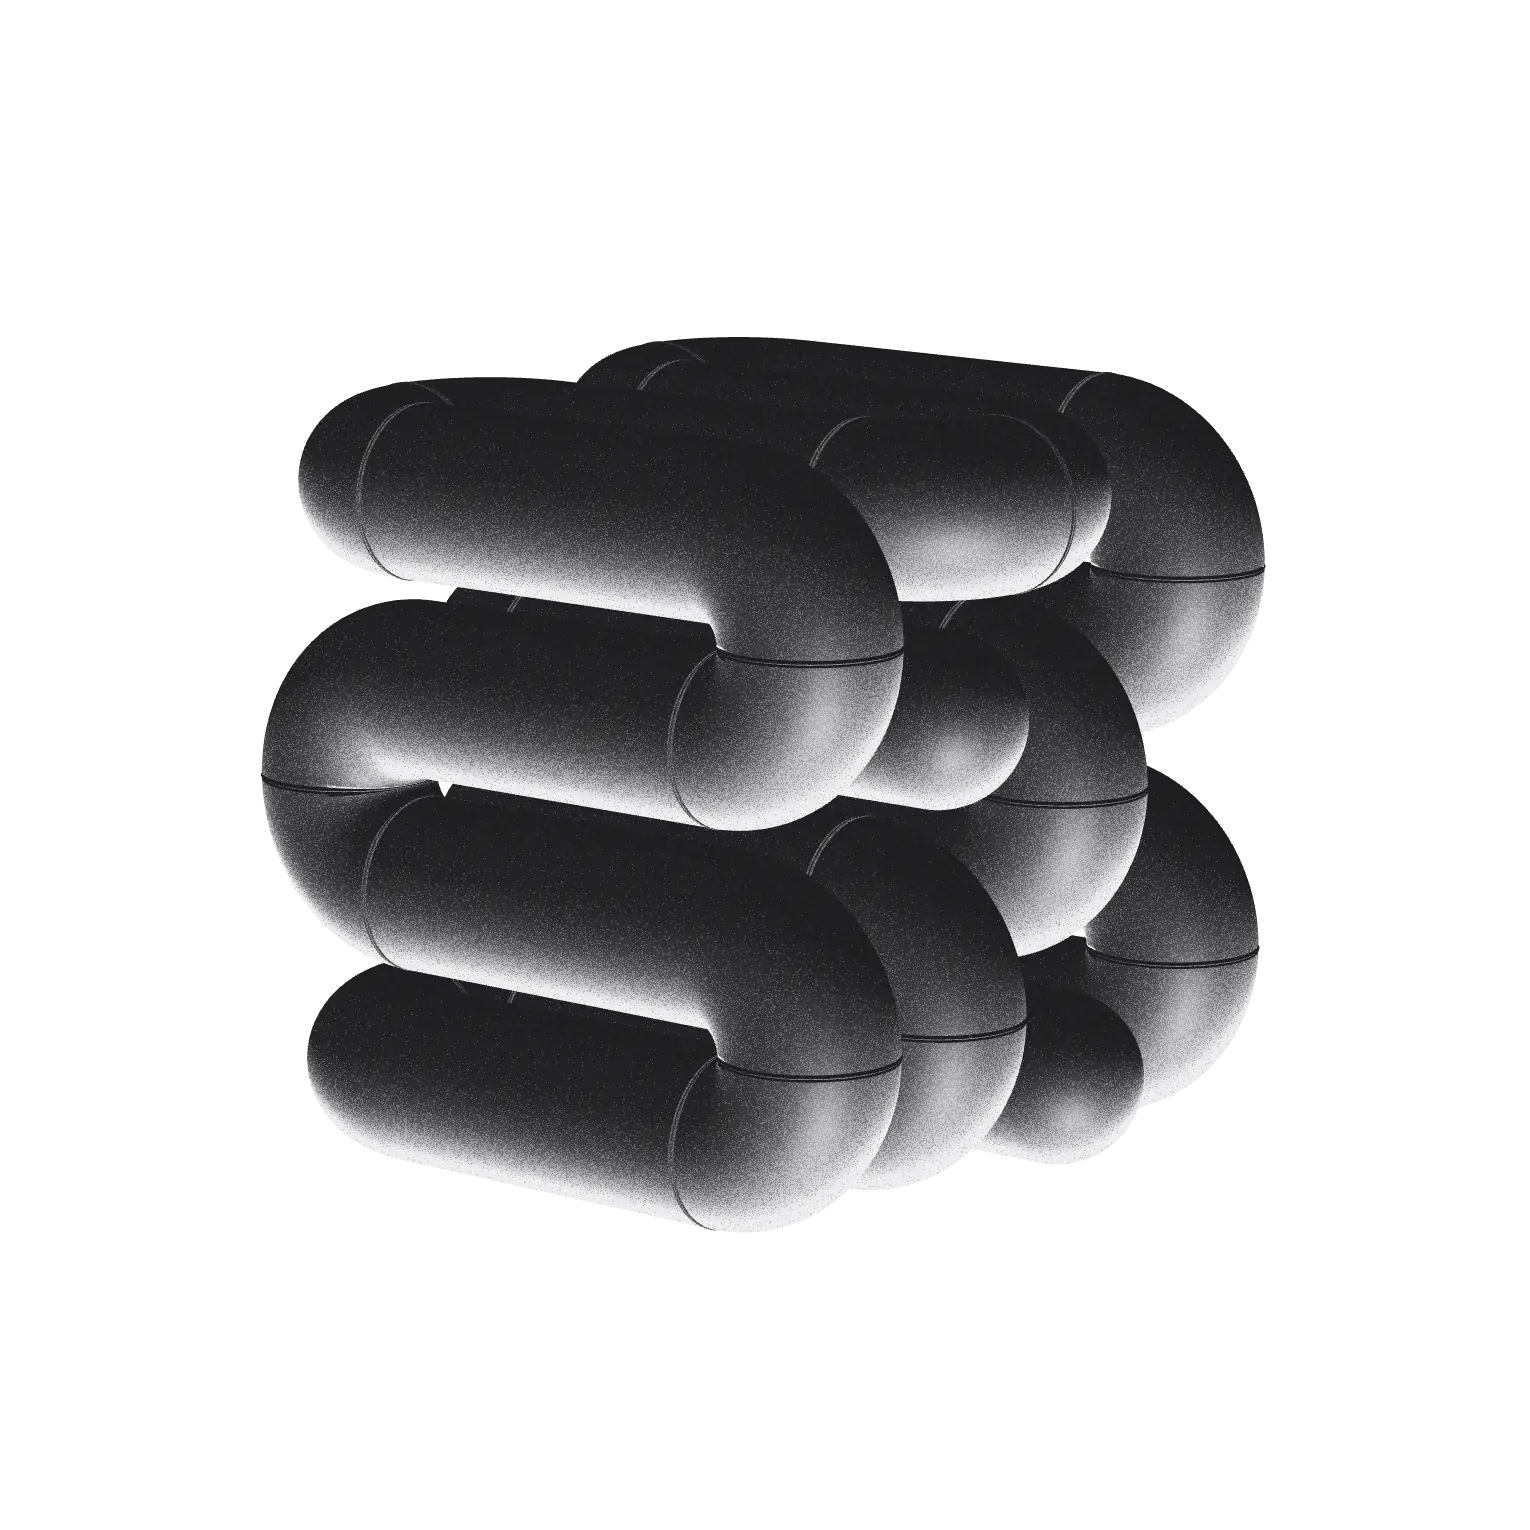
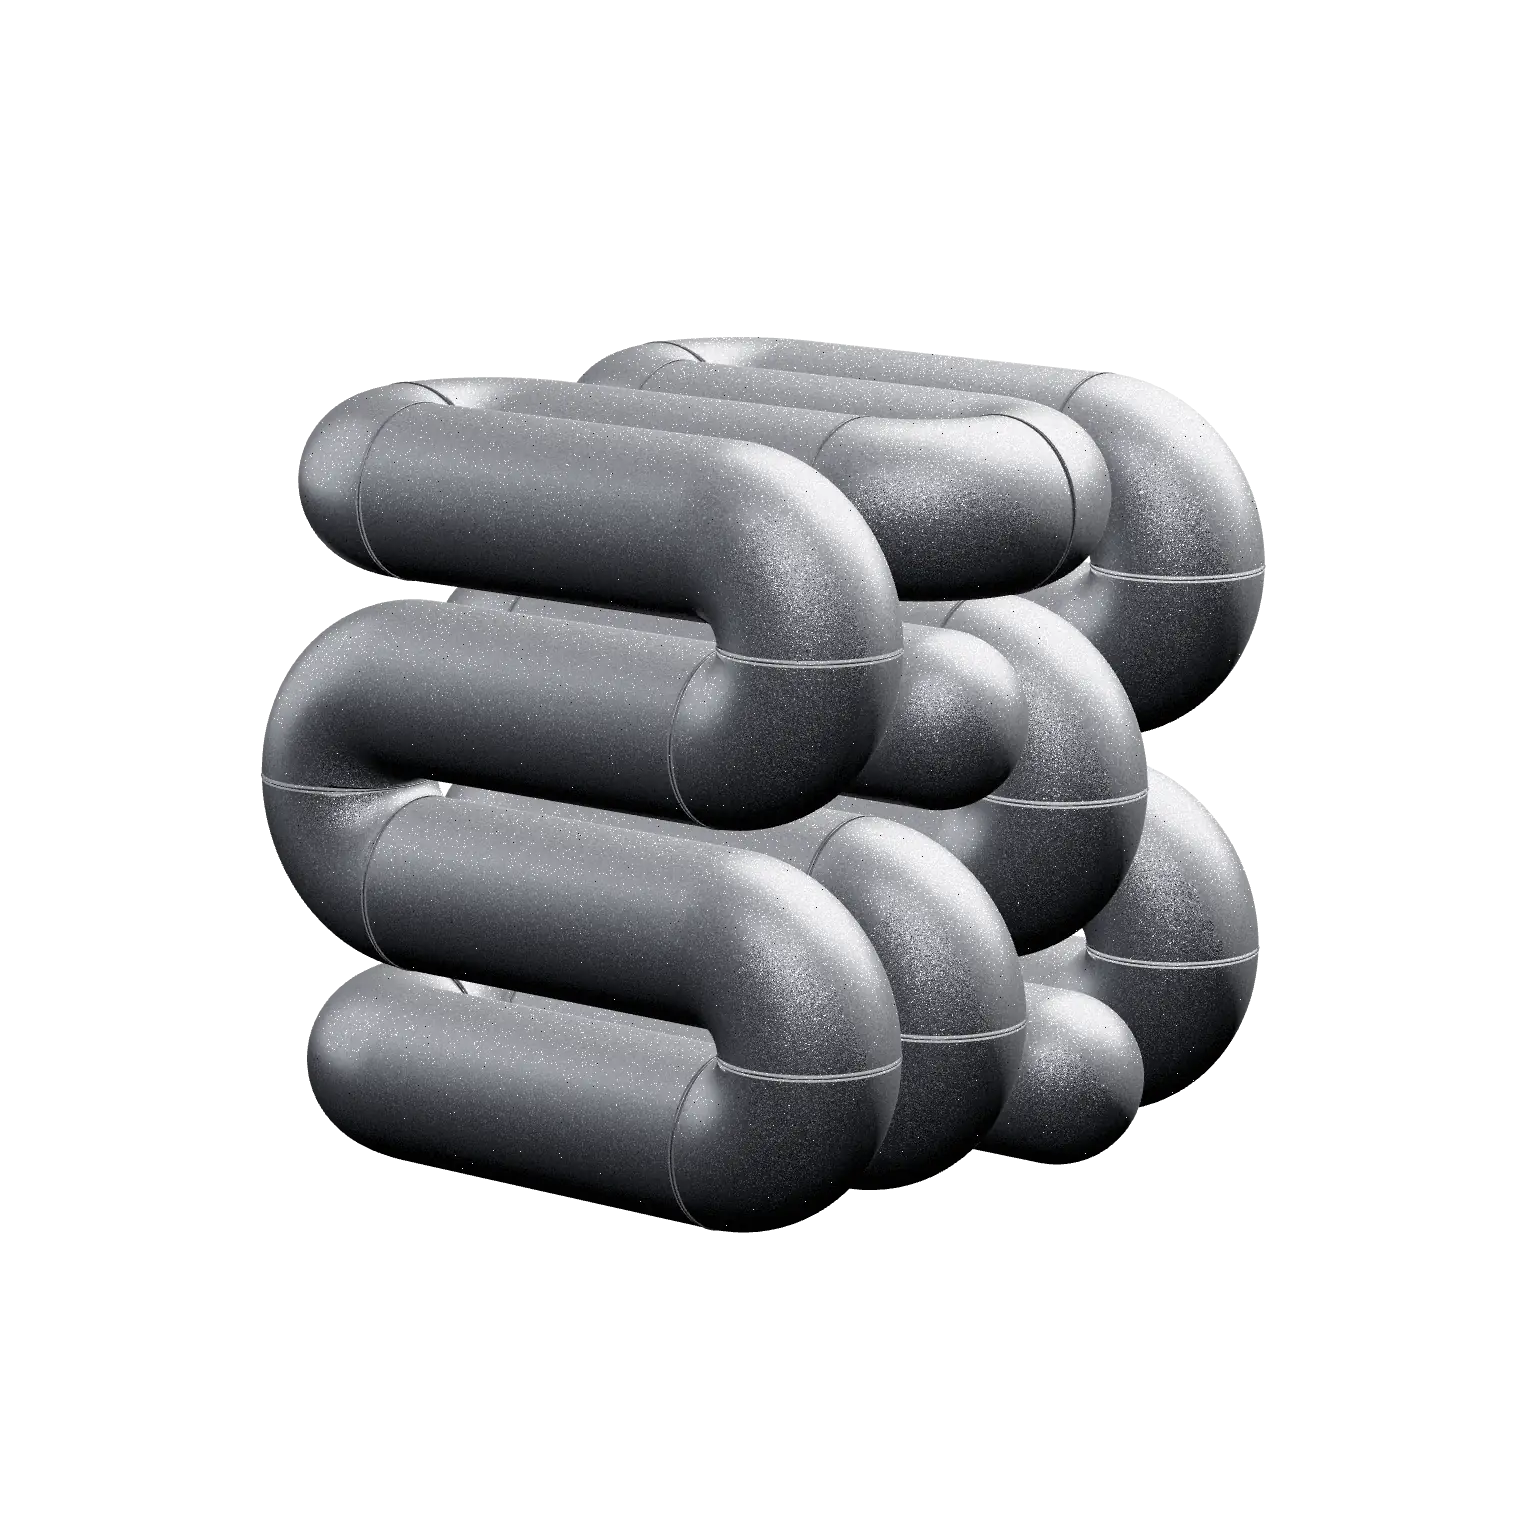
立体を最初の銀色に戻し、細かな粒を重ねる。調整パネルも銀色用にする

Changed region(s): [[0.1536, 0.215, 0.8294, 0.8294]]

diff --git a/src/components/GrainTuner.tsx b/src/components/GrainTuner.tsx
@@ -2,24 +2,25 @@
 
 import { useEffect, useState } from "react";
 import { createPortal } from "react-dom";
-import { GRAIN, type Grain } from "@/lib/sykim/grain";
+import { SILVER, type Silver } from "@/lib/sykim/silverGrain";
 
 /**
  * 立体の質感を、その場で動かして確かめる調整パネル。
  * URL に ?tune を付けたときだけ出る（例: https://noitems01.vercel.app/?tune）。
  *
  * 使い方: つまみを動かす →「値をコピー」→ その文字をそのまま Claude に送る。
- * 送られた値を lib/sykim/grain.ts の GRAIN に書き写して確定する
+ * 送られた値を lib/sykim/silverGrain.ts の SILVER に書き写して確定する
  * （ground だけは背景色なので globals.css の --color-ground へ）。
  * 動かした値はこのブラウザに覚えておくので、再読み込みしても消えない。
  */
 
-const STORE = "noitems-grain-tune";
+// 黒い粒子の頃（noitems-grain-tune）とは値の中身が違うので、覚える場所を分ける
+const STORE = "noitems-silver-tune";
 
 /** ページの背景（globals.css の --color-ground）。立体の値と一緒に調整する */
 const GROUND = "#d5d1c9";
-type Tune = Grain & { ground: string };
-const DEFAULT: Tune = { ...GRAIN, ground: GROUND };
+type Tune = Silver & { ground: string };
+const DEFAULT: Tune = { ...SILVER, ground: GROUND };
 
 const toHex = (a: number[]) =>
   "#" + a.slice(0, 3).map((v) => Math.round(Math.min(1, Math.max(0, v)) * 255)
@@ -51,10 +52,8 @@ type Swatch = {
 const SWATCHES: Swatch[] = [
   { label: "背景の色", hint: "ページの地",
     get: (g) => g.ground, set: (g, h) => ({ ...g, ground: h }) },
-  { label: "立体の地の色", hint: "暗い面の色",
-    get: (g) => toHex(g.dark), set: (g, h) => ({ ...g, dark: fromHex(h) }) },
-  { label: "立体の白", hint: "光った所の色",
-    get: (g) => toHex(g.light), set: (g, h) => ({ ...g, light: fromHex(h) }) },
+  { label: "本体の色", hint: "金属の色",
+    get: (g) => g.base, set: (g, h) => ({ ...g, base: h }) },
 ];
 
 type Knob = {
@@ -67,65 +66,44 @@ type Knob = {
   set: (g: Tune, v: number) => Tune;
 };
 
-const vec = (i: number) => ({
-  get: (g: Tune) => g.keyDir[i],
-  set: (g: Tune, v: number) => {
-    const d = [...g.keyDir];
-    d[i] = v;
-    return { ...g, keyDir: d };
-  },
-});
-
 const GROUPS: { title: string; knobs: Knob[] }[] = [
   {
-    title: "ざらつき",
+    title: "粒",
     knobs: [
-      { label: "粒の量", hint: "0でなめらか、1で粒だけ", min: 0, max: 1, step: 0.01,
-        get: (g) => g.smooth, set: (g, v) => ({ ...g, smooth: v }) },
-      { label: "細かな揺れ", hint: "画素ごとのざらざら", min: 0, max: 0.1, step: 0.001,
+      { label: "ざらつき", hint: "画素ごとの明るさの揺れ", min: 0, max: 0.15, step: 0.001,
         get: (g) => g.noise, set: (g, v) => ({ ...g, noise: v }) },
+      { label: "白い粒の量", hint: "光った所に散る白い点", min: 0, max: 0.8, step: 0.01,
+        get: (g) => g.dots, set: (g, v) => ({ ...g, dots: v }) },
+      { label: "白い粒が出る所", hint: "小さいほど暗い所にも出る", min: 0, max: 1, step: 0.01,
+        get: (g) => g.dotsFrom, set: (g, v) => ({ ...g, dotsFrom: v }) },
+      { label: "黒い粒の量", hint: "影に散る黒い点", min: 0, max: 0.8, step: 0.01,
+        get: (g) => g.darkDots, set: (g, v) => ({ ...g, darkDots: v }) },
       { label: "粒の大きさ", hint: "画素数", min: 1, max: 4, step: 1,
         get: (g) => g.grainPx, set: (g, v) => ({ ...g, grainPx: v }) },
-      { label: "明るい所の埋まり", hint: "1で白一色", min: 0.5, max: 1, step: 0.01,
-        get: (g) => g.cap, set: (g, v) => ({ ...g, cap: v }) },
-      { label: "暗い所の粒", hint: "暗い面に散らす白い点", min: 0, max: 0.3, step: 0.005,
-        get: (g) => g.floor, set: (g, v) => ({ ...g, floor: v }) },
     ],
   },
   {
-    title: "光沢",
+    title: "金属",
     knobs: [
-      { label: "照りの強さ", hint: "つるっとした照り返し", min: 0, max: 1.5, step: 0.01,
-        get: (g) => g.spec, set: (g, v) => ({ ...g, spec: v }) },
-      { label: "照りの鋭さ", hint: "大きいほど小さく鋭い", min: 2, max: 200, step: 1,
-        get: (g) => g.shine, set: (g, v) => ({ ...g, shine: v }) },
-    ],
-  },
-  {
-    title: "光",
-    knobs: [
-      { label: "主光の強さ", hint: "", min: 0, max: 1.5, step: 0.01,
-        get: (g) => g.key, set: (g, v) => ({ ...g, key: v }) },
-      { label: "主光 左右", hint: "−左 ／ ＋右", min: -1, max: 1, step: 0.01, ...vec(0) },
-      { label: "主光 上下", hint: "−下 ／ ＋上", min: -1, max: 1, step: 0.01, ...vec(1) },
-      { label: "主光 前後", hint: "＋手前から", min: -1, max: 1, step: 0.01, ...vec(2) },
-      { label: "補助光", hint: "左からの弱い光", min: 0, max: 0.6, step: 0.01,
-        get: (g) => g.fill, set: (g, v) => ({ ...g, fill: v }) },
-      { label: "縁の光", hint: "下側の輪郭の白", min: 0, max: 2.5, step: 0.01,
-        get: (g) => g.rim, set: (g, v) => ({ ...g, rim: v }) },
-      { label: "全体の底上げ", hint: "光の当たらない面", min: 0, max: 0.4, step: 0.005,
-        get: (g) => g.ambient, set: (g, v) => ({ ...g, ambient: v }) },
+      { label: "明るさ", hint: "全体の露出", min: -3, max: 0.5, step: 0.01,
+        get: (g) => g.exposure, set: (g, v) => ({ ...g, exposure: v }) },
+      { label: "金属っぽさ", hint: "0で塗装、1で鏡のよう", min: 0, max: 1, step: 0.005,
+        get: (g) => g.metalness, set: (g, v) => ({ ...g, metalness: v }) },
+      { label: "映り込み", hint: "まわりの景色", min: 0, max: 0.6, step: 0.005,
+        get: (g) => g.env, set: (g, v) => ({ ...g, env: v }) },
+      { label: "継ぎ目の暗さ", hint: "小さいほど暗い線", min: 0, max: 1, step: 0.01,
+        get: (g) => g.seam, set: (g, v) => ({ ...g, seam: v }) },
     ],
   },
 ];
 
-type W = { __heroGrain__?: (g: Grain) => void; __heroGrainLast__?: Grain };
+type W = { __heroSilver__?: (g: Silver) => void; __heroSilverLast__?: Silver };
 
 /** 立体へ値を送る。立体がまだ読み込み中なら、読み込み後に立体の側が拾う */
-function push(g: Grain) {
+function push(g: Silver) {
   const w = window as unknown as W;
-  w.__heroGrainLast__ = g;
-  w.__heroGrain__?.(g);
+  w.__heroSilverLast__ = g;
+  w.__heroSilver__?.(g);
 }
 
 /** 既定値から変えたところだけを書き出す */

diff --git a/src/components/HeroObject.tsx b/src/components/HeroObject.tsx
@@ -3,8 +3,14 @@
 import { useEffect, useRef, useState } from "react";
 // 実体は動的に読み込む。型だけ静的に借りる
 import type * as THREE_T from "three";
-import { LOOK } from "@/lib/sykim/look";
-import { makeGrainMaterial, setGrain, type Grain } from "@/lib/sykim/grain";
+import { LOOK, applyLook } from "@/lib/sykim/look";
+import {
+  SILVER,
+  addGrain,
+  makeGrainUniforms,
+  setSilver,
+  type Silver,
+} from "@/lib/sykim/silverGrain";
 import { GrainTuner } from "@/components/GrainTuner";
 import { POSES } from "@/lib/sykim/poses";
 import { makeHitTest } from "@/lib/sykim/collide";
@@ -161,38 +167,53 @@ export function HeroObject({
       }
       const model = gltf.scene;
 
-      // ── 素材: 黒い地に白い粒が浮く質感（lib/sykim/grain.ts）。
-      // 銀色の金属（lib/sykim/look.ts の applyLook）から 2026-11-06 に差し替えた。
+      // ── 素材: 銀色の金属（lib/sykim/look.ts）に細かな粒を重ねる（lib/sykim/silverGrain.ts）。
+      // 2026-11-06 に黒い粒子（grain.ts）へ替えたが、11-08 に「最初の銀色がいちばん近い。
+      // そこに少し粒子を」と言われて戻した。
       // あわせて丸棒を「繋がっている順」に集める。めり込み判定がこの並びを使う
-      const grainMat = makeGrainMaterial(THREE);
-      // 継ぎ目は輪が少し張り出している。縁の光を当てると明るい線、
-      // 光を消すと黒い帯になる。本体と同じ光で、縁の光だけ外して馴染ませる
-      const seamMat = makeGrainMaterial(THREE, { rim: 0 });
-      // 調整パネル（URL に ?tune）から値を流し込む口。継ぎ目は縁の光だけ外したまま
-      {
-        const w = window as unknown as {
-          __heroGrain__?: (g: Grain) => void;
-          __heroGrainLast__?: Grain;
-        };
-        w.__heroGrain__ = (g) => {
-          setGrain(grainMat, g);
-          setGrain(seamMat, { ...g, rim: 0 });
-        };
-        if (w.__heroGrainLast__) w.__heroGrain__(w.__heroGrainLast__);
-      }
+      const grainU = makeGrainUniforms();
+      let baseMat: THREE_T.MeshStandardMaterial | null = null;
       const meshes: THREE_T.Mesh[] = [];
       model.traverse((o) => {
         const m = o as THREE_T.Mesh;
-        if (!m.isMesh || !m.material) return;
-        // 部品の継ぎ目も本体と同じ素材にして、線として見せない。
-        // ⚠ 隠さないこと。継ぎ目は部品のすき間を埋めていて、隠すと地が透けて線になる
-        if (m.name.startsWith("seam")) {
-          m.material = seamMat;
-          return;
+        if (!m.isMesh || !m.material || m.name.startsWith("seam")) return;
+        if (!baseMat) {
+          baseMat = m.material as THREE_T.MeshStandardMaterial;
+          applyLook(THREE, baseMat, L);
+          addGrain(baseMat, grainU);
         }
-        m.material = grainMat;
+        m.material = baseMat!;
+        (m.material as THREE_T.Material).side = THREE.FrontSide;
         meshes.push(m);
       });
+      // 繋ぎ目は本体と同じ金属味で、色だけ少し暗く。粒も同じものを重ねる
+      const seamMats: THREE_T.MeshStandardMaterial[] = [];
+      model.traverse((o) => {
+        const m = o as THREE_T.Mesh;
+        if (!(m.isMesh && m.name.startsWith("seam"))) return;
+        const sm = m.material as THREE_T.MeshStandardMaterial;
+        if (seamMats.includes(sm)) return;
+        seamMats.push(sm);
+        sm.roughness = (L.mat.rough_min + L.mat.rough_max) / 2;
+        addGrain(sm, grainU);
+      });
+      const silverTarget = {
+        body: baseMat! as THREE_T.MeshStandardMaterial,
+        seams: seamMats,
+        u: grainU,
+        renderer,
+        scene,
+      };
+      setSilver(SILVER, silverTarget);
+      // 調整パネル（URL に ?tune）から値を流し込む口
+      {
+        const w = window as unknown as {
+          __heroSilver__?: (s: Silver) => void;
+          __heroSilverLast__?: Silver;
+        };
+        w.__heroSilver__ = (v) => setSilver(v, silverTarget);
+        if (w.__heroSilverLast__) w.__heroSilver__(w.__heroSilverLast__);
+      }
 
       // 関節を J00〜J29 の順に集める
       const found = new Map<string, THREE_T.Object3D>();
@@ -732,7 +753,7 @@ export function HeroObject({
         resetRef.current = null;
         delete (window as unknown as { __resetHeroForm__?: () => void })
           .__resetHeroForm__;
-        delete (window as unknown as { __heroGrain__?: unknown }).__heroGrain__;
+        delete (window as unknown as { __heroSilver__?: unknown }).__heroSilver__;
         renderer.setAnimationLoop(null);
         ro.disconnect();
         pm.dispose();
@@ -769,7 +790,7 @@ export function HeroObject({
         <div aria-hidden className="aspect-square w-full" />
         <img
           src="/img/form-hero.webp"
-          alt="黒い地に白い粒が浮かぶ、用途の定まらないかたち"
+          alt="つや消しの銀色をした、用途の定まらないかたち"
           decoding="async"
           data-ready={ready}
           className="absolute inset-0 h-full w-full data-[ready=true]:opacity-0"

diff --git a/src/lib/sykim/silverGrain.ts b/src/lib/sykim/silverGrain.ts
@@ -1,0 +1,113 @@
+import type * as THREE_T from "three";
+
+/**
+ * 銀色の金属（look.ts）に、細かな粒を重ねる（2026-11-08 ユーザー指定）。
+ *
+ * 「最初の銀色がいちばん近い。そこに少し粒子を入れたい」という指示で、
+ * 黒い粒子の素材（grain.ts）から銀色へ戻した。
+ * 粒は画面の画素ごとに、色を作り終えた最後に足す（立体が回っても粒は画面に張り付いたまま）。
+ *
+ * 値は調整パネル（URL に ?tune）で動かせる。ユーザーから送られた値をここに書き写して確定する。
+ */
+export const SILVER = {
+  /** 本体の色（画面の色。#rrggbb） */
+  base: "#9d9ea7",
+  /** 継ぎ目の暗さ（本体の色に掛ける） */
+  seam: 0.55,
+  /** 金属っぽさ。0 で塗装、1 で鏡のような金属 */
+  metalness: 0.775,
+  /** 全体の明るさ（露出。2 の何乗か） */
+  exposure: -1.475,
+  /** まわりの景色の映り込み */
+  env: 0.14,
+  /** 粒の濃さ（画素ごとの明るさの揺れ） */
+  noise: 0.035,
+  /** 白い粒の量 */
+  dots: 0.12,
+  /** 白い粒が出はじめる明るさ（0〜1。小さいほど暗い所にも出る） */
+  dotsFrom: 0.45,
+  /** 黒い粒の量（影に散らす） */
+  darkDots: 0.0,
+  /** 粒の大きさ（画面の画素数） */
+  grainPx: 1,
+};
+
+export type Silver = typeof SILVER;
+
+/** 粒の値はすべての素材で同じものを指す。1 か所を書き換えれば全部に効く */
+export function makeGrainUniforms(s: Silver = SILVER) {
+  return {
+    uNoise: { value: s.noise },
+    uDots: { value: s.dots },
+    uDotsFrom: { value: s.dotsFrom },
+    uDarkDots: { value: s.darkDots },
+    uGrainPx: { value: s.grainPx },
+  };
+}
+export type GrainUniforms = ReturnType<typeof makeGrainUniforms>;
+
+/** 素材に粒を足す。applyLook のあとに呼ぶ（元の書き換えはそのまま生かす） */
+export function addGrain(mat: THREE_T.Material, u: GrainUniforms) {
+  const prev = mat.onBeforeCompile;
+  mat.onBeforeCompile = (sh, r) => {
+    prev?.call(mat, sh, r);
+    Object.assign(sh.uniforms, u);
+    sh.fragmentShader =
+      /* glsl */ `
+      uniform float uNoise, uDots, uDotsFrom, uDarkDots, uGrainPx;
+      // 画素ごとの乱数。粗い式だと粒が格子状に並んで見えるので、偏りの少ない式を使う
+      float grainHash(vec2 p) {
+        vec3 p3 = fract(vec3(p.xyx) * 0.1031);
+        p3 += dot(p3, p3.yzx + 33.33);
+        return fract((p3.x + p3.y) * p3.z);
+      }
+    ` +
+      sh.fragmentShader.replace(
+        "#include <dithering_fragment>",
+        /* glsl */ `
+        {
+          vec2 cell = floor(gl_FragCoord.xy / uGrainPx);
+          vec3 c = gl_FragColor.rgb;
+          float lum = dot(c, vec3(0.299, 0.587, 0.114));
+          // 明るい所ほど白い粒が増える（点描のように）
+          float w = smoothstep(uDotsFrom, 1.0, lum) * uDots;
+          c = mix(c, vec3(1.0), step(grainHash(cell), w) * 0.85);
+          // 暗い所ほど黒い粒が増える
+          float b = (1.0 - smoothstep(0.0, uDotsFrom, lum)) * uDarkDots;
+          c = mix(c, vec3(0.0), step(grainHash(cell + 17.7), b) * 0.85);
+          // 全体の細かなざらつき
+          c += (grainHash(cell + 71.3) - 0.5) * uNoise * 2.0;
+          gl_FragColor.rgb = clamp(c, 0.0, 1.0);
+        }
+        #include <dithering_fragment>
+      `,
+      );
+  };
+  mat.needsUpdate = true;
+}
+
+/** 調整パネルから来た値を当てる */
+export function setSilver(
+  s: Silver,
+  t: {
+    body: THREE_T.MeshStandardMaterial;
+    seams: THREE_T.MeshStandardMaterial[];
+    u: GrainUniforms;
+    renderer: THREE_T.WebGLRenderer;
+    scene: THREE_T.Scene;
+  },
+) {
+  t.body.color.set(s.base);
+  t.body.metalness = s.metalness;
+  for (const m of t.seams) {
+    m.color.copy(t.body.color).multiplyScalar(s.seam);
+    m.metalness = s.metalness;
+  }
+  t.renderer.toneMappingExposure = Math.pow(2, s.exposure);
+  t.scene.environmentIntensity = s.env;
+  t.u.uNoise.value = s.noise;
+  t.u.uDots.value = s.dots;
+  t.u.uDotsFrom.value = s.dotsFrom;
+  t.u.uDarkDots.value = s.darkDots;
+  t.u.uGrainPx.value = s.grainPx;
+}
